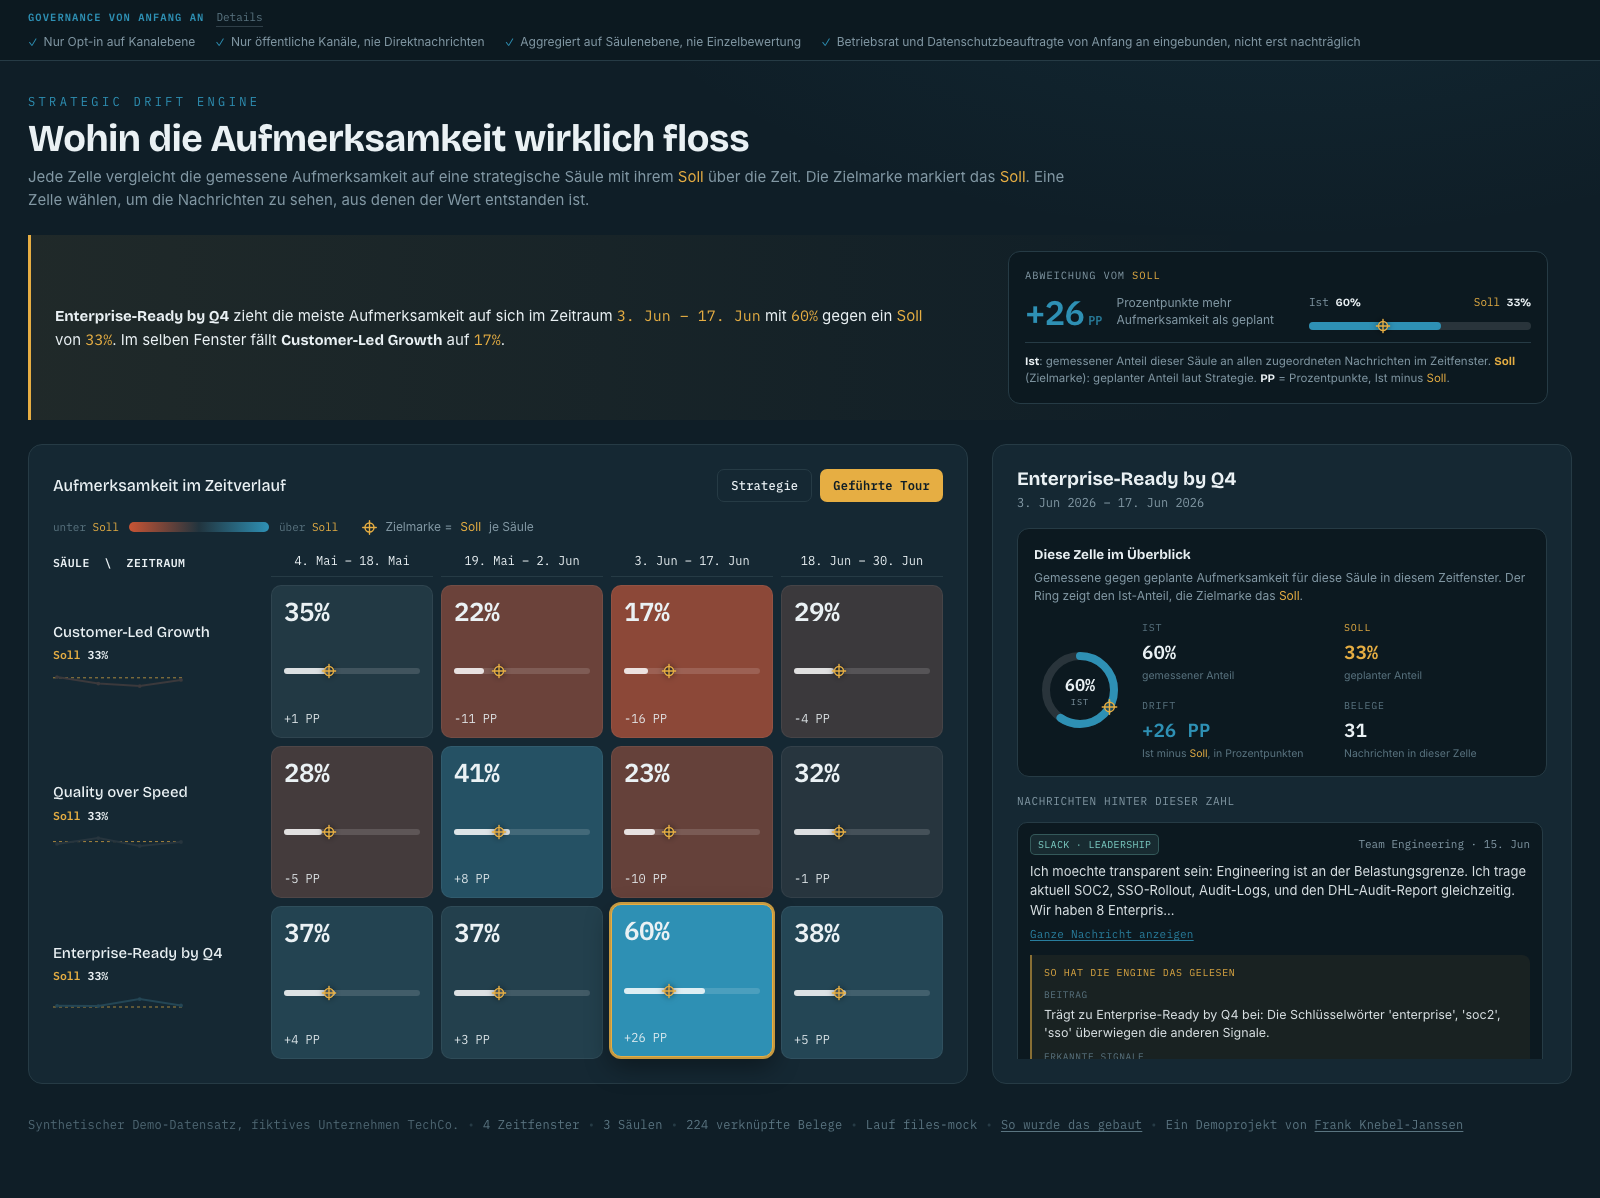
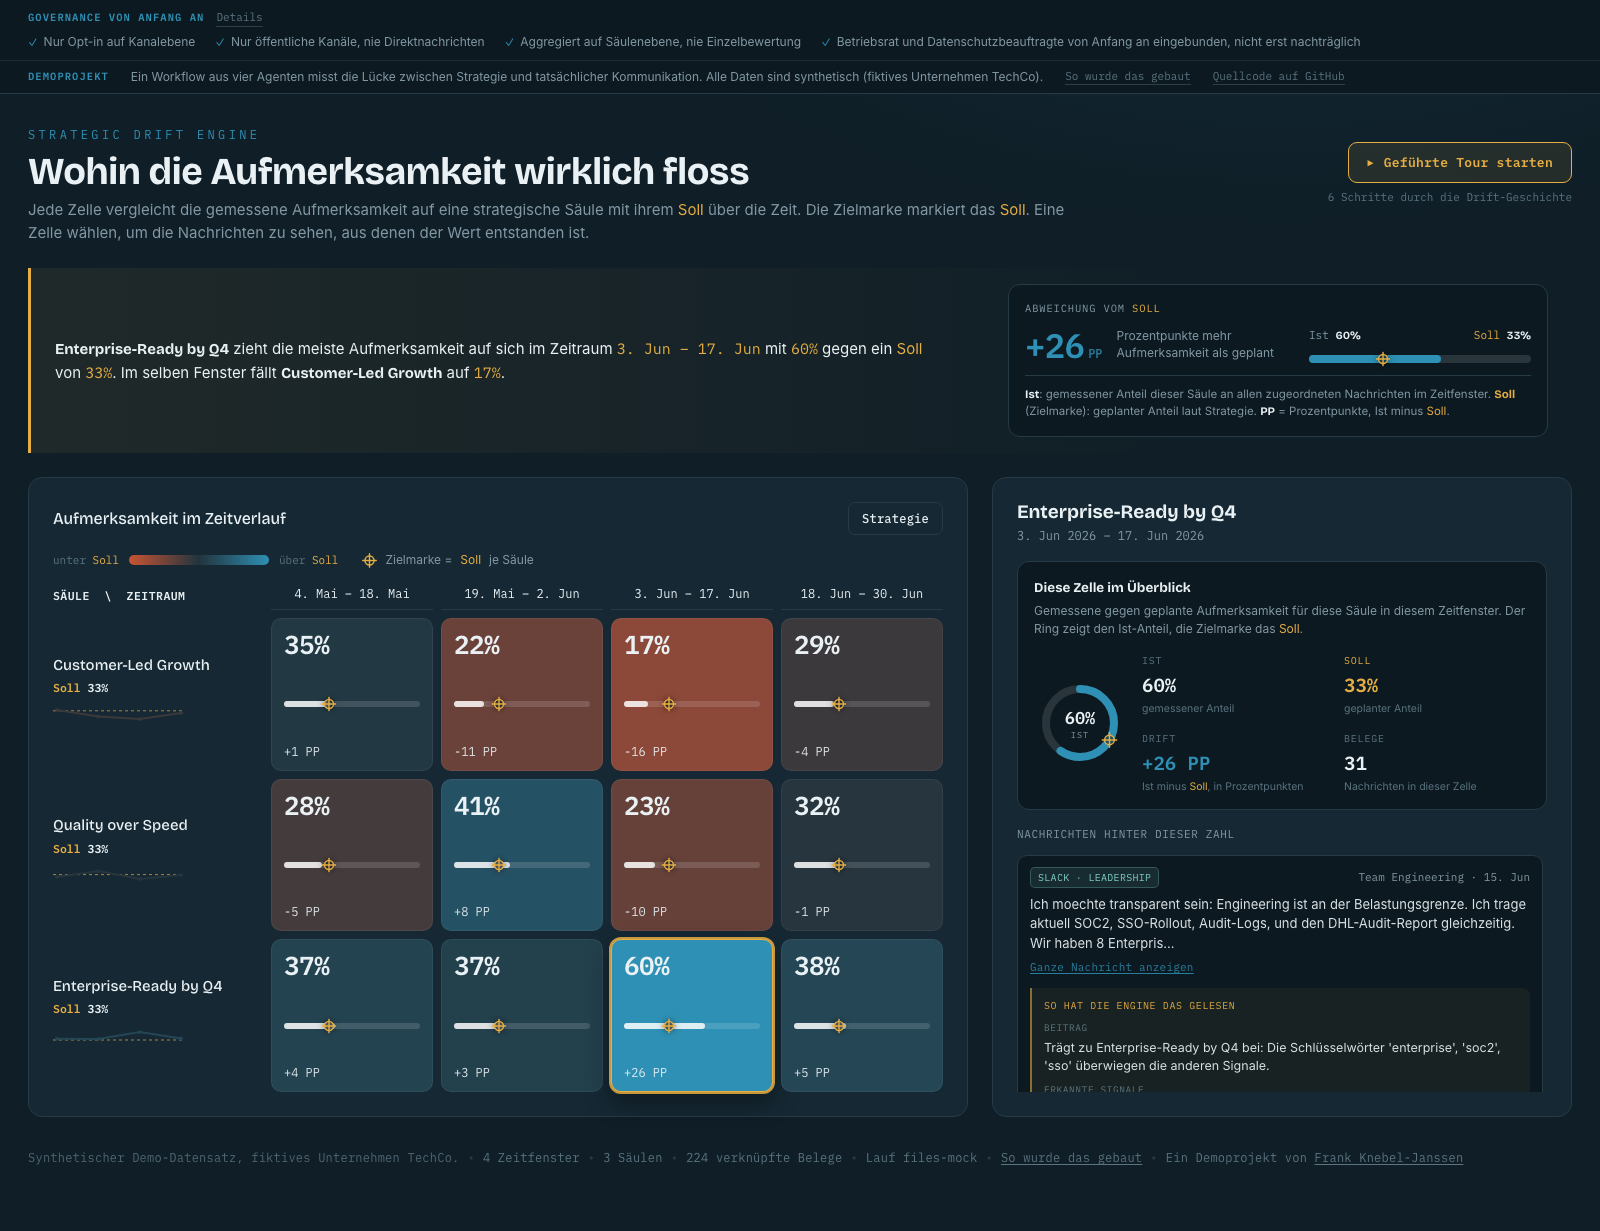
feat(frontend): Direkter Einstieg ohne Overlay, Tour ueber Button startbar und jederzeit verlassbar

diff --git a/docs/index.html b/docs/index.html
@@ -29,6 +29,7 @@ body{
   align-items:center; gap:6px 22px; font-size:12px; color:var(--muted)}
 .gov-title{font-family:var(--mono); font-size:10.5px; letter-spacing:.1em; text-transform:uppercase;
   color:var(--teal); font-weight:600; white-space:nowrap}
+.gov-in.demo{border-top:1px solid rgba(38,59,69,.6); padding-top:7px; padding-bottom:7px}
 .gov-list{list-style:none; margin:0; padding:0; display:flex; flex-wrap:wrap; gap:4px 20px}
 .gov-list li{display:flex; align-items:baseline; gap:6px}
 .gov-list li::before{content:"\2713"; color:var(--teal); font-size:11px}
@@ -46,6 +47,16 @@ h1{font-family:var(--disp); font-weight:700; font-size:clamp(26px,3.2vw,38px);
   line-height:1.05; letter-spacing:-.01em; margin:0 0 var(--s1)}
 .sub{color:var(--muted); font-size:15px; max-width:110ch; margin:0}
 
+.head-row{display:flex; justify-content:space-between; align-items:flex-start; gap:var(--s3); flex-wrap:wrap}
+.head-text{flex:1 1 560px; min-width:0}
+.tour-cta{flex:0 0 auto; text-align:right; margin-top:var(--s2)}
+.tour-cta-btn{font-family:var(--mono); font-size:13px; font-weight:600; letter-spacing:.02em; color:var(--amber);
+  background:rgba(230,174,67,.1); border:1px solid var(--amber); border-radius:9px; padding:11px 18px; cursor:pointer;
+  display:inline-flex; align-items:center; gap:10px; transition:background .14s ease, color .14s ease}
+.tour-cta-btn:hover{background:var(--amber); color:var(--ground)}
+.tour-cta-btn:focus-visible{outline:2px solid var(--ink); outline-offset:2px}
+.tc-ico{font-size:10px}
+.tour-cta-sub{font-family:var(--mono); font-size:11px; color:var(--faint); margin-top:6px}
 .reading{margin-top:var(--s3); padding:var(--s2) var(--s3); border-left:3px solid var(--amber);
   background:linear-gradient(90deg, rgba(230,174,67,.08), transparent 80%);
   border-radius:0 10px 10px 0; font-size:15px; display:flex; align-items:center;
@@ -131,16 +142,6 @@ h1{font-family:var(--disp); font-weight:700; font-size:clamp(26px,3.2vw,38px);
 .p-card ul{margin:4px 0 0; padding-left:16px}
 .p-card li{font-size:12.5px; color:var(--ink); opacity:.88; margin:2px 0; line-height:1.45}
 
-.welcome-panel{max-width:560px}
-.welcome-panel .eyebrow{margin-bottom:12px}
-.welcome-panel .modal-title{margin-bottom:14px}
-.welcome-text{font-size:14.5px; line-height:1.6; color:var(--ink); opacity:.92; margin:0 0 22px}
-.welcome-actions{display:flex; gap:10px; flex-wrap:wrap}
-.welcome-actions .tour-btn,.welcome-actions .ghost-btn{padding:10px 16px; font-size:13px}
-.welcome-foot{margin-top:20px; font-family:var(--mono); font-size:11.5px; display:flex; align-items:center; gap:8px; flex-wrap:wrap}
-.welcome-foot a{color:var(--faint); text-decoration:none; border-bottom:1px solid rgba(130,152,164,.3)}
-.welcome-foot a:hover{color:var(--teal); border-bottom-color:var(--teal)}
-.welcome-foot .dot{color:var(--line)}
 
 .legend{display:flex; flex-wrap:wrap; align-items:center; gap:14px var(--s3); margin-bottom:var(--s2)}
 .scale{display:flex; align-items:center; gap:10px}
@@ -194,6 +195,8 @@ h1{font-family:var(--disp); font-weight:700; font-size:clamp(26px,3.2vw,38px);
   border:1px solid var(--line); border-radius:7px; padding:7px 11px; cursor:pointer; transition:border-color .14s}
 .tb-ctrl button:hover{border-color:var(--amber)}
 .tb-ctrl button:disabled{opacity:.4; cursor:default}
+.tb-ctrl .tb-exit{color:var(--muted)}
+.tb-ctrl .tb-exit:hover{color:var(--ink)}
 .tb-ctrl .prim{background:var(--amber); color:var(--ground); border-color:var(--amber); font-weight:600}
 
 .drill{position:relative; min-height:520px}
@@ -286,12 +289,24 @@ footer .note{color:var(--faint); opacity:.85}
       <li>Betriebsrat und Datenschutzbeauftragte von Anfang an eingebunden, nicht erst nachträglich</li>
     </ul>
   </div>
+  <div class="gov-in demo">
+    <span class="gov-title">Demoprojekt</span>
+    <span>Ein Workflow aus vier Agenten misst die Lücke zwischen Strategie und tatsächlicher Kommunikation. Alle Daten sind synthetisch (fiktives Unternehmen TechCo).</span>
+    <a class="gov-link" style="margin-left:0" href="bauprozess.html" target="_blank" rel="noopener">So wurde das gebaut</a>
+    <a class="gov-link" style="margin-left:0" href="https://github.com/frankknebeljanssen-create/strategic-drift-engine" target="_blank" rel="noopener">Quellcode auf GitHub</a>
+  </div>
 </div>
 <div class="wrap">
   <header>
+    <div class="head-row"><div class="head-text">
     <div class="eyebrow">Strategic Drift Engine</div>
     <h1>Wohin die Aufmerksamkeit wirklich floss</h1>
     <p class="sub">Jede Zelle vergleicht die gemessene Aufmerksamkeit auf eine strategische Säule mit ihrem Soll über die Zeit. Die Zielmarke markiert das Soll. Eine Zelle wählen, um die Nachrichten zu sehen, aus denen der Wert entstanden ist.</p>
+    </div>
+    <div class="tour-cta">
+      <button class="tour-cta-btn" id="tourBtn"><span class="tc-ico" aria-hidden="true">&#9654;</span><span id="tourBtnLabel">Geführte Tour starten</span></button>
+      <div class="tour-cta-sub" id="tourCtaSub"></div>
+    </div></div>
     <div class="reading" id="reading"></div>
   </header>
 
@@ -301,7 +316,6 @@ footer .note{color:var(--faint); opacity:.85}
         <div class="hm-title">Aufmerksamkeit im Zeitverlauf</div>
         <div class="hm-actions">
           <button class="ghost-btn" id="strategyBtn">Strategie</button>
-          <button class="tour-btn" id="tourBtn">Geführte Tour</button>
         </div>
       </div>
       <div class="legend">
@@ -319,7 +333,7 @@ footer .note{color:var(--faint); opacity:.85}
         <div class="tb-ctrl">
           <button id="tbPrev">Zurück</button>
           <button id="tbNext" class="prim">Weiter</button>
-          <button id="tbEnd">Fertig</button>
+          <button id="tbEnd" class="tb-exit">&#10005; Tour verlassen</button>
         </div>
       </div>
     </section>
@@ -335,23 +349,6 @@ footer .note{color:var(--faint); opacity:.85}
     <button class="modal-close" id="strategyClose" aria-label="Schließen">×</button>
     <h2 class="modal-title" id="strategyTitle">Strategie-Steckbrief</h2>
     <div id="strategyBody"></div>
-  </div>
-</div>
-
-<div class="modal-overlay" id="welcomeModal" role="dialog" aria-modal="true" aria-labelledby="welcomeTitle">
-  <div class="modal-panel welcome-panel">
-    <div class="eyebrow">Demoprojekt</div>
-    <h2 class="modal-title" id="welcomeTitle">Strategic Drift Engine</h2>
-    <p class="welcome-text">Ein Workflow aus vier Agenten, der die Lücke zwischen der formulierten Strategie eines Unternehmens und dem misst, was seine interne Kommunikation tatsächlich zeigt. Alles hier läuft auf einem synthetischen Datensatz eines fiktiven Unternehmens, TechCo. Einfach durchklicken.</p>
-    <div class="welcome-actions">
-      <button class="tour-btn" id="welcomeTour">Geführte Tour starten</button>
-      <button class="ghost-btn" id="welcomeExplore">Selbst erkunden</button>
-    </div>
-    <div class="welcome-foot">
-      <a href="bauprozess.html" target="_blank" rel="noopener">So wurde das gebaut</a>
-      <span class="dot">&middot;</span>
-      <a href="https://github.com/frankknebeljanssen-create/strategic-drift-engine" target="_blank" rel="noopener">Quellcode auf GitHub</a>
-    </div>
   </div>
 </div>
 
@@ -668,7 +665,7 @@ function startTour(){
   tour.active=true; tour.i=0; tour.steps=buildTour();
   document.getElementById("grid").classList.add("touring");
   document.getElementById("tourbar").hidden=false;
-  document.getElementById("tourBtn").textContent="Tour läuft";
+  document.getElementById("tourBtnLabel").textContent="Tour läuft";
   showTourStep();
 }
 function showTourStep(){
@@ -680,17 +677,25 @@ function showTourStep(){
   colorSoll(document.getElementById("tbText"));
   document.getElementById("tbPrev").disabled = tour.i===0;
   document.getElementById("tbNext").textContent = tour.i===tour.steps.length-1 ? "Von vorn" : "Weiter";
+  document.getElementById("tourbar").scrollIntoView({block:"nearest", behavior:"smooth"});
 }
-function endTour(){
+function peakCell(){return DATA.cells.reduce((a,b)=>Math.abs(a.drift)>Math.abs(b.drift)?a:b);}
+// reset=true: komplett zurueck zur normalen Dashboard-Ansicht (Standardauswahl, Seitenanfang).
+function endTour(reset){
   tour.active=false;
   document.getElementById("grid").classList.remove("touring");
   document.getElementById("tourbar").hidden=true;
-  document.getElementById("tourBtn").textContent="Geführte Tour";
+  document.getElementById("tourBtnLabel").textContent="Geführte Tour starten";
+  if(reset===true){
+    const best = peakCell();
+    select(best.window_index, best.pillar_key);
+    window.scrollTo({top:0, behavior:"smooth"});
+  }
 }
-document.getElementById("tourBtn").addEventListener("click",()=>{ tour.active?endTour():startTour(); });
+document.getElementById("tourBtn").addEventListener("click",()=>{ tour.active?endTour(true):startTour(); });
 document.getElementById("tbPrev").addEventListener("click",()=>{ if(tour.i>0){tour.i--; showTourStep();} });
 document.getElementById("tbNext").addEventListener("click",()=>{ tour.i=(tour.i+1)%tour.steps.length; showTourStep(); });
-document.getElementById("tbEnd").addEventListener("click", endTour);
+document.getElementById("tbEnd").addEventListener("click", ()=>endTour(true));
 
 function inlineMd(s){return escapeHtml(s).replace(/\*\*(.+?)\*\*/g,"<strong>$1</strong>");}
 function renderMarkdown(md){
@@ -744,21 +749,9 @@ document.getElementById("strategyModal").addEventListener("click", e=>{
 });
 document.addEventListener("keydown", e=>{
   if(e.key==="Escape"){
-    if(!document.getElementById("welcomeModal").hidden) closeWelcome();
-    else if(tour.active) endTour();
+    if(tour.active) endTour(true);
     else if(!document.getElementById("strategyModal").hidden) closeStrategy();
   }
-});
-
-// Willkommens-Overlay: erscheint bei jedem Laden (kein localStorage).
-function closeWelcome(){
-  document.getElementById("welcomeModal").hidden = true;
-  document.body.style.overflow = "";
-}
-document.getElementById("welcomeExplore").addEventListener("click", closeWelcome);
-document.getElementById("welcomeTour").addEventListener("click", ()=>{ closeWelcome(); startTour(); });
-document.getElementById("welcomeModal").addEventListener("click", e=>{
-  if(e.target.id==="welcomeModal") closeWelcome();
 });
 
 function renderFoot(){
@@ -773,11 +766,10 @@ function renderFoot(){
 
 document.getElementById("legendTgt").innerHTML = tgtSvg("tgt-legend");
 renderGrid(); renderReading(); renderFoot();
+document.getElementById("tourCtaSub").textContent = buildTour().length+" Schritte durch die Drift-Geschichte";
 (function(){
-  const best = DATA.cells.reduce((a,b)=>Math.abs(a.drift)>Math.abs(b.drift)?a:b);
+  const best = peakCell();
   select(best.window_index, best.pillar_key);
-  // Welcome-Overlay ist beim Laden offen -> Body-Scroll sperren.
-  if(!document.getElementById("welcomeModal").hidden) document.body.style.overflow = "hidden";
 })();
 </script>
 </body>

diff --git a/docs/build_frontend.py b/docs/build_frontend.py
@@ -51,6 +51,7 @@ body{
   align-items:center; gap:6px 22px; font-size:12px; color:var(--muted)}
 .gov-title{font-family:var(--mono); font-size:10.5px; letter-spacing:.1em; text-transform:uppercase;
   color:var(--teal); font-weight:600; white-space:nowrap}
+.gov-in.demo{border-top:1px solid rgba(38,59,69,.6); padding-top:7px; padding-bottom:7px}
 .gov-list{list-style:none; margin:0; padding:0; display:flex; flex-wrap:wrap; gap:4px 20px}
 .gov-list li{display:flex; align-items:baseline; gap:6px}
 .gov-list li::before{content:"\2713"; color:var(--teal); font-size:11px}
@@ -68,6 +69,16 @@ h1{font-family:var(--disp); font-weight:700; font-size:clamp(26px,3.2vw,38px);
   line-height:1.05; letter-spacing:-.01em; margin:0 0 var(--s1)}
 .sub{color:var(--muted); font-size:15px; max-width:110ch; margin:0}
 
+.head-row{display:flex; justify-content:space-between; align-items:flex-start; gap:var(--s3); flex-wrap:wrap}
+.head-text{flex:1 1 560px; min-width:0}
+.tour-cta{flex:0 0 auto; text-align:right; margin-top:var(--s2)}
+.tour-cta-btn{font-family:var(--mono); font-size:13px; font-weight:600; letter-spacing:.02em; color:var(--amber);
+  background:rgba(230,174,67,.1); border:1px solid var(--amber); border-radius:9px; padding:11px 18px; cursor:pointer;
+  display:inline-flex; align-items:center; gap:10px; transition:background .14s ease, color .14s ease}
+.tour-cta-btn:hover{background:var(--amber); color:var(--ground)}
+.tour-cta-btn:focus-visible{outline:2px solid var(--ink); outline-offset:2px}
+.tc-ico{font-size:10px}
+.tour-cta-sub{font-family:var(--mono); font-size:11px; color:var(--faint); margin-top:6px}
 .reading{margin-top:var(--s3); padding:var(--s2) var(--s3); border-left:3px solid var(--amber);
   background:linear-gradient(90deg, rgba(230,174,67,.08), transparent 80%);
   border-radius:0 10px 10px 0; font-size:15px; display:flex; align-items:center;
@@ -153,16 +164,6 @@ h1{font-family:var(--disp); font-weight:700; font-size:clamp(26px,3.2vw,38px);
 .p-card ul{margin:4px 0 0; padding-left:16px}
 .p-card li{font-size:12.5px; color:var(--ink); opacity:.88; margin:2px 0; line-height:1.45}
 
-.welcome-panel{max-width:560px}
-.welcome-panel .eyebrow{margin-bottom:12px}
-.welcome-panel .modal-title{margin-bottom:14px}
-.welcome-text{font-size:14.5px; line-height:1.6; color:var(--ink); opacity:.92; margin:0 0 22px}
-.welcome-actions{display:flex; gap:10px; flex-wrap:wrap}
-.welcome-actions .tour-btn,.welcome-actions .ghost-btn{padding:10px 16px; font-size:13px}
-.welcome-foot{margin-top:20px; font-family:var(--mono); font-size:11.5px; display:flex; align-items:center; gap:8px; flex-wrap:wrap}
-.welcome-foot a{color:var(--faint); text-decoration:none; border-bottom:1px solid rgba(130,152,164,.3)}
-.welcome-foot a:hover{color:var(--teal); border-bottom-color:var(--teal)}
-.welcome-foot .dot{color:var(--line)}
 
 .legend{display:flex; flex-wrap:wrap; align-items:center; gap:14px var(--s3); margin-bottom:var(--s2)}
 .scale{display:flex; align-items:center; gap:10px}
@@ -216,6 +217,8 @@ h1{font-family:var(--disp); font-weight:700; font-size:clamp(26px,3.2vw,38px);
   border:1px solid var(--line); border-radius:7px; padding:7px 11px; cursor:pointer; transition:border-color .14s}
 .tb-ctrl button:hover{border-color:var(--amber)}
 .tb-ctrl button:disabled{opacity:.4; cursor:default}
+.tb-ctrl .tb-exit{color:var(--muted)}
+.tb-ctrl .tb-exit:hover{color:var(--ink)}
 .tb-ctrl .prim{background:var(--amber); color:var(--ground); border-color:var(--amber); font-weight:600}
 
 .drill{position:relative; min-height:520px}
@@ -308,12 +311,24 @@ footer .note{color:var(--faint); opacity:.85}
       <li>Betriebsrat und Datenschutzbeauftragte von Anfang an eingebunden, nicht erst nachträglich</li>
     </ul>
   </div>
+  <div class="gov-in demo">
+    <span class="gov-title">Demoprojekt</span>
+    <span>Ein Workflow aus vier Agenten misst die Lücke zwischen Strategie und tatsächlicher Kommunikation. Alle Daten sind synthetisch (fiktives Unternehmen TechCo).</span>
+    <a class="gov-link" style="margin-left:0" href="bauprozess.html" target="_blank" rel="noopener">So wurde das gebaut</a>
+    <a class="gov-link" style="margin-left:0" href="https://github.com/frankknebeljanssen-create/strategic-drift-engine" target="_blank" rel="noopener">Quellcode auf GitHub</a>
+  </div>
 </div>
 <div class="wrap">
   <header>
+    <div class="head-row"><div class="head-text">
     <div class="eyebrow">Strategic Drift Engine</div>
     <h1>Wohin die Aufmerksamkeit wirklich floss</h1>
     <p class="sub">Jede Zelle vergleicht die gemessene Aufmerksamkeit auf eine strategische Säule mit ihrem Soll über die Zeit. Die Zielmarke markiert das Soll. Eine Zelle wählen, um die Nachrichten zu sehen, aus denen der Wert entstanden ist.</p>
+    </div>
+    <div class="tour-cta">
+      <button class="tour-cta-btn" id="tourBtn"><span class="tc-ico" aria-hidden="true">&#9654;</span><span id="tourBtnLabel">Geführte Tour starten</span></button>
+      <div class="tour-cta-sub" id="tourCtaSub"></div>
+    </div></div>
     <div class="reading" id="reading"></div>
   </header>
 
@@ -323,7 +338,6 @@ footer .note{color:var(--faint); opacity:.85}
         <div class="hm-title">Aufmerksamkeit im Zeitverlauf</div>
         <div class="hm-actions">
           <button class="ghost-btn" id="strategyBtn">Strategie</button>
-          <button class="tour-btn" id="tourBtn">Geführte Tour</button>
         </div>
       </div>
       <div class="legend">
@@ -341,7 +355,7 @@ footer .note{color:var(--faint); opacity:.85}
         <div class="tb-ctrl">
           <button id="tbPrev">Zurück</button>
           <button id="tbNext" class="prim">Weiter</button>
-          <button id="tbEnd">Fertig</button>
+          <button id="tbEnd" class="tb-exit">&#10005; Tour verlassen</button>
         </div>
       </div>
     </section>
@@ -357,23 +371,6 @@ footer .note{color:var(--faint); opacity:.85}
     <button class="modal-close" id="strategyClose" aria-label="Schließen">×</button>
     <h2 class="modal-title" id="strategyTitle">Strategie-Steckbrief</h2>
     <div id="strategyBody"></div>
-  </div>
-</div>
-
-<div class="modal-overlay" id="welcomeModal" role="dialog" aria-modal="true" aria-labelledby="welcomeTitle">
-  <div class="modal-panel welcome-panel">
-    <div class="eyebrow">Demoprojekt</div>
-    <h2 class="modal-title" id="welcomeTitle">Strategic Drift Engine</h2>
-    <p class="welcome-text">Ein Workflow aus vier Agenten, der die Lücke zwischen der formulierten Strategie eines Unternehmens und dem misst, was seine interne Kommunikation tatsächlich zeigt. Alles hier läuft auf einem synthetischen Datensatz eines fiktiven Unternehmens, TechCo. Einfach durchklicken.</p>
-    <div class="welcome-actions">
-      <button class="tour-btn" id="welcomeTour">Geführte Tour starten</button>
-      <button class="ghost-btn" id="welcomeExplore">Selbst erkunden</button>
-    </div>
-    <div class="welcome-foot">
-      <a href="bauprozess.html" target="_blank" rel="noopener">So wurde das gebaut</a>
-      <span class="dot">&middot;</span>
-      <a href="https://github.com/frankknebeljanssen-create/strategic-drift-engine" target="_blank" rel="noopener">Quellcode auf GitHub</a>
-    </div>
   </div>
 </div>
 
@@ -690,7 +687,7 @@ function startTour(){
   tour.active=true; tour.i=0; tour.steps=buildTour();
   document.getElementById("grid").classList.add("touring");
   document.getElementById("tourbar").hidden=false;
-  document.getElementById("tourBtn").textContent="Tour läuft";
+  document.getElementById("tourBtnLabel").textContent="Tour läuft";
   showTourStep();
 }
 function showTourStep(){
@@ -702,17 +699,25 @@ function showTourStep(){
   colorSoll(document.getElementById("tbText"));
   document.getElementById("tbPrev").disabled = tour.i===0;
   document.getElementById("tbNext").textContent = tour.i===tour.steps.length-1 ? "Von vorn" : "Weiter";
+  document.getElementById("tourbar").scrollIntoView({block:"nearest", behavior:"smooth"});
 }
-function endTour(){
+function peakCell(){return DATA.cells.reduce((a,b)=>Math.abs(a.drift)>Math.abs(b.drift)?a:b);}
+// reset=true: komplett zurueck zur normalen Dashboard-Ansicht (Standardauswahl, Seitenanfang).
+function endTour(reset){
   tour.active=false;
   document.getElementById("grid").classList.remove("touring");
   document.getElementById("tourbar").hidden=true;
-  document.getElementById("tourBtn").textContent="Geführte Tour";
+  document.getElementById("tourBtnLabel").textContent="Geführte Tour starten";
+  if(reset===true){
+    const best = peakCell();
+    select(best.window_index, best.pillar_key);
+    window.scrollTo({top:0, behavior:"smooth"});
+  }
 }
-document.getElementById("tourBtn").addEventListener("click",()=>{ tour.active?endTour():startTour(); });
+document.getElementById("tourBtn").addEventListener("click",()=>{ tour.active?endTour(true):startTour(); });
 document.getElementById("tbPrev").addEventListener("click",()=>{ if(tour.i>0){tour.i--; showTourStep();} });
 document.getElementById("tbNext").addEventListener("click",()=>{ tour.i=(tour.i+1)%tour.steps.length; showTourStep(); });
-document.getElementById("tbEnd").addEventListener("click", endTour);
+document.getElementById("tbEnd").addEventListener("click", ()=>endTour(true));
 
 function inlineMd(s){return escapeHtml(s).replace(/\*\*(.+?)\*\*/g,"<strong>$1</strong>");}
 function renderMarkdown(md){
@@ -766,21 +771,9 @@ document.getElementById("strategyModal").addEventListener("click", e=>{
 });
 document.addEventListener("keydown", e=>{
   if(e.key==="Escape"){
-    if(!document.getElementById("welcomeModal").hidden) closeWelcome();
-    else if(tour.active) endTour();
+    if(tour.active) endTour(true);
     else if(!document.getElementById("strategyModal").hidden) closeStrategy();
   }
-});
-
-// Willkommens-Overlay: erscheint bei jedem Laden (kein localStorage).
-function closeWelcome(){
-  document.getElementById("welcomeModal").hidden = true;
-  document.body.style.overflow = "";
-}
-document.getElementById("welcomeExplore").addEventListener("click", closeWelcome);
-document.getElementById("welcomeTour").addEventListener("click", ()=>{ closeWelcome(); startTour(); });
-document.getElementById("welcomeModal").addEventListener("click", e=>{
-  if(e.target.id==="welcomeModal") closeWelcome();
 });
 
 function renderFoot(){
@@ -795,11 +788,10 @@ function renderFoot(){
 
 document.getElementById("legendTgt").innerHTML = tgtSvg("tgt-legend");
 renderGrid(); renderReading(); renderFoot();
+document.getElementById("tourCtaSub").textContent = buildTour().length+" Schritte durch die Drift-Geschichte";
 (function(){
-  const best = DATA.cells.reduce((a,b)=>Math.abs(a.drift)>Math.abs(b.drift)?a:b);
+  const best = peakCell();
   select(best.window_index, best.pillar_key);
-  // Welcome-Overlay ist beim Laden offen -> Body-Scroll sperren.
-  if(!document.getElementById("welcomeModal").hidden) document.body.style.overflow = "hidden";
 })();
 </script>
 </body>
